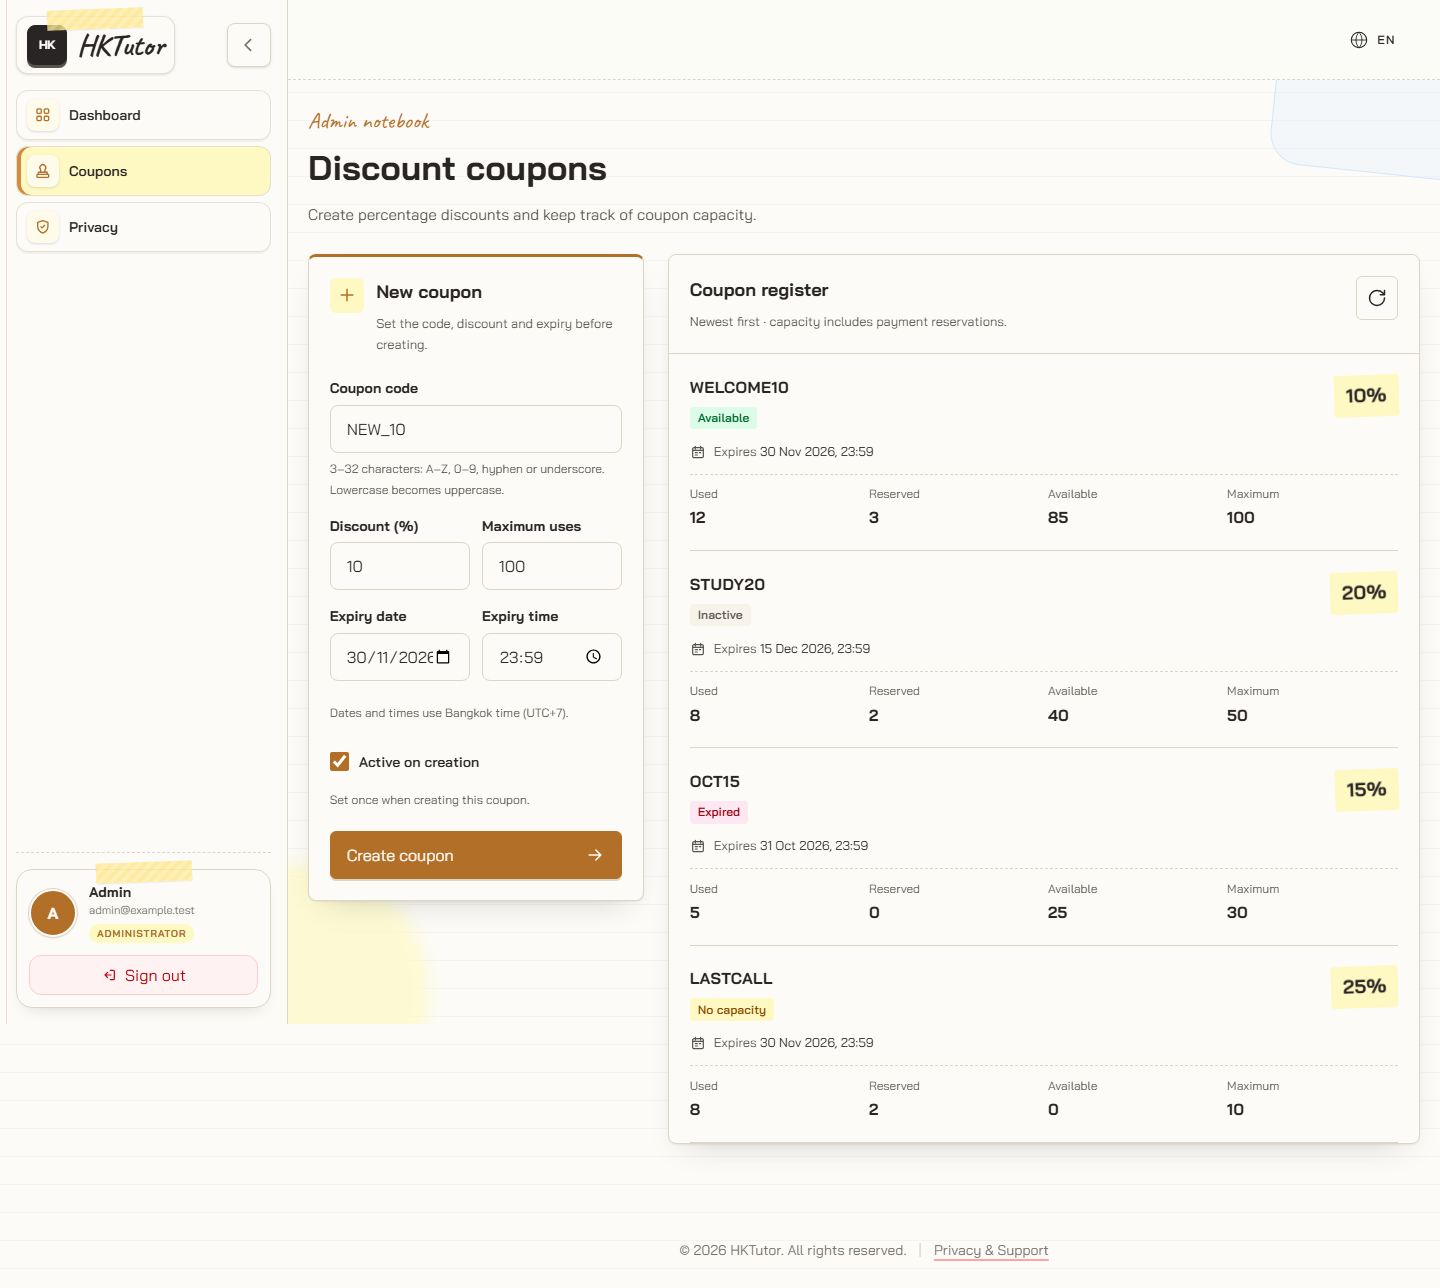
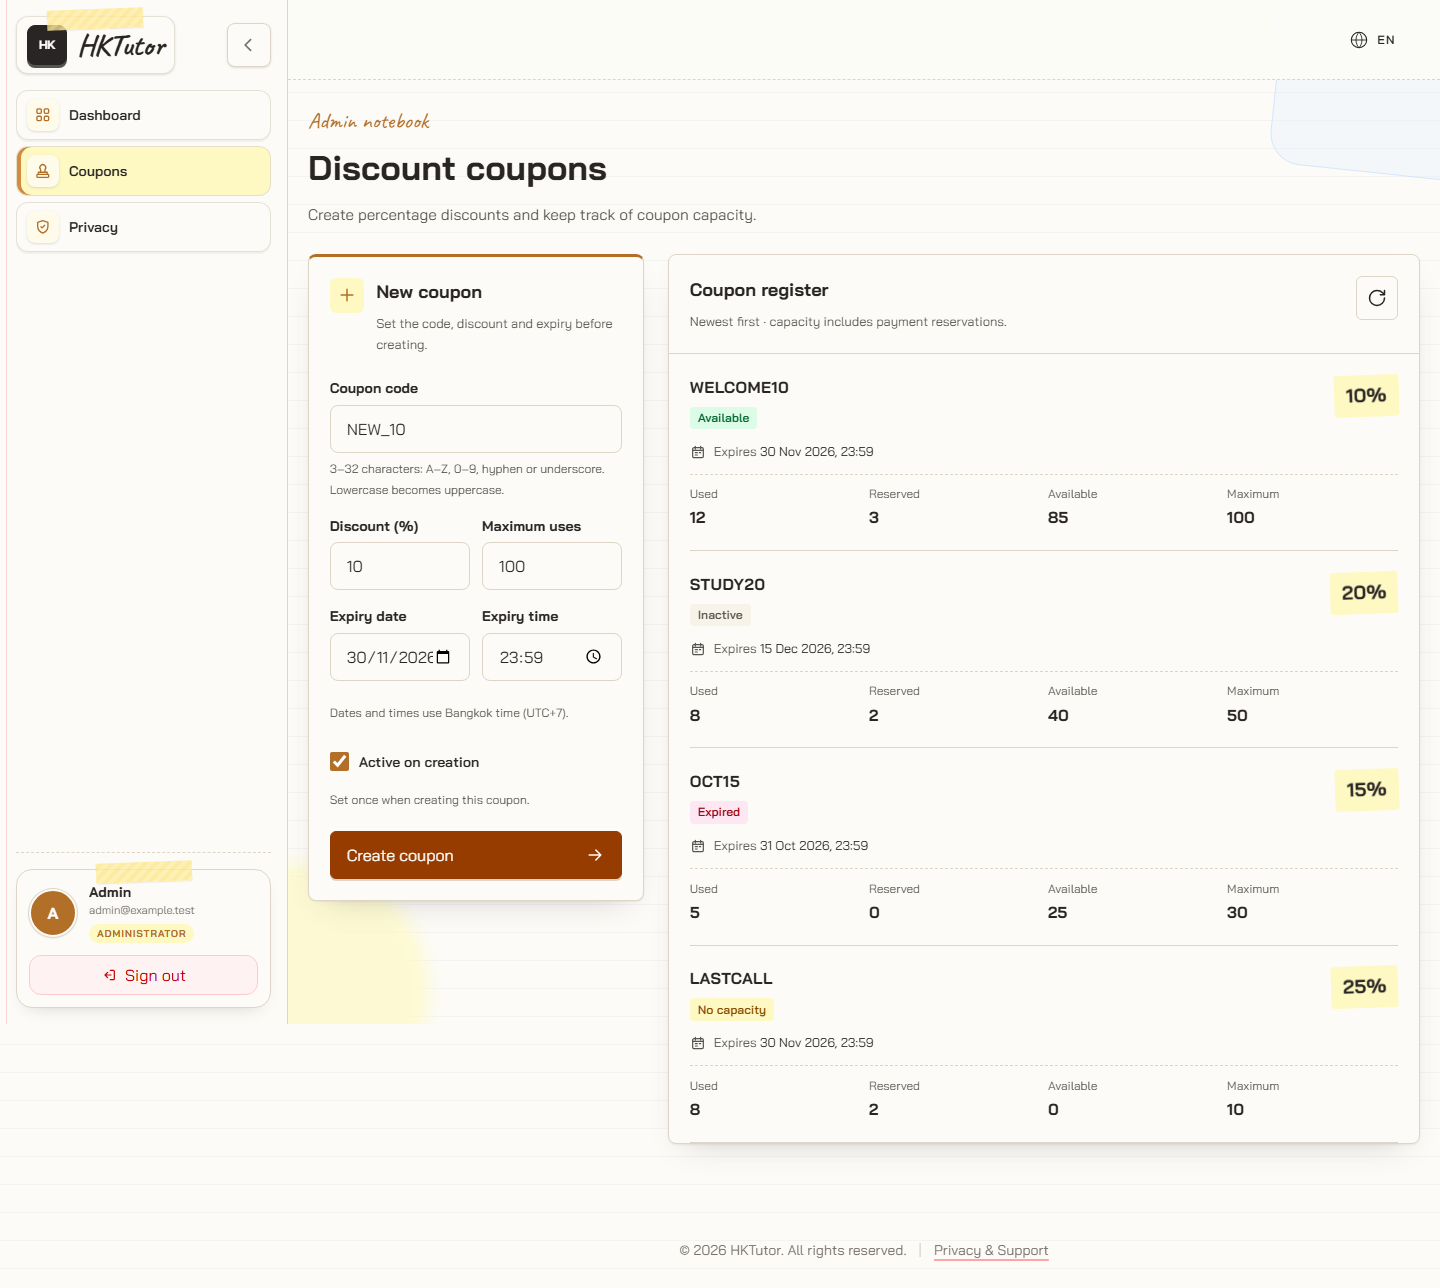
fix(coupons): improve button contrast and display recovered coupon details

Changed region(s): [[0.2188, 0.6211, 0.4375, 0.6832]]

diff --git a/apps/web/e2e/admin-coupons-ui.spec.ts b/apps/web/e2e/admin-coupons-ui.spec.ts
@@ -318,6 +318,152 @@ test('an absent code after a full recovery scan permits a manual retry', async (
   expect(posts).toBe(1);
 });
 
+test('the primary creation button meets text contrast in normal and hover states', async ({
+  page,
+}) => {
+  await page.emulateMedia({ reducedMotion: 'reduce' });
+  await setup(page, async (route) => {
+    await route.fulfill({ json: { items: [], nextCursor: null } });
+  });
+  const button = page.getByRole('button', { name: 'Create coupon', exact: true });
+  const contrast = () =>
+    button.evaluate((element) => {
+      const style = getComputedStyle(element);
+      const canvas = document.createElement('canvas');
+      canvas.width = 1;
+      canvas.height = 1;
+      const context = canvas.getContext('2d');
+      if (!context) {
+        throw new Error('Expected a canvas context for sRGB color conversion');
+      }
+      const luminance = (color: string): number => {
+        context.fillStyle = color;
+        context.fillRect(0, 0, 1, 1);
+        const [red = 0, green = 0, blue = 0] = Array.from(context.getImageData(0, 0, 1, 1).data)
+          .slice(0, 3)
+          .map((value) => {
+            const channel = value / 255;
+            return channel <= 0.04045 ? channel / 12.92 : ((channel + 0.055) / 1.055) ** 2.4;
+          });
+        return red * 0.2126 + green * 0.7152 + blue * 0.0722;
+      };
+      const foreground = luminance(style.color);
+      const background = luminance(style.backgroundColor);
+      return {
+        color: style.color,
+        background: style.backgroundColor,
+        ratio:
+          (Math.max(foreground, background) + 0.05) / (Math.min(foreground, background) + 0.05),
+      };
+    });
+  const normal = await contrast();
+  expect(normal.ratio).toBeGreaterThanOrEqual(4.5);
+  if (await page.evaluate(() => matchMedia('(hover: hover)').matches)) {
+    await button.hover();
+    await expect.poll(async () => (await contrast()).background).not.toBe(normal.background);
+    expect((await contrast()).ratio).toBeGreaterThanOrEqual(4.5);
+  }
+});
+
+for (const language of ['en', 'th']) {
+  test(`recovery displays the 21st coupon even when first-page refresh fails (${language})`, async ({
+    page,
+  }, testInfo) => {
+    await page.emulateMedia({ reducedMotion: 'reduce' });
+    let mode: 'initial' | 'checking' | 'refresh' = 'initial';
+    let posts = 0;
+    const recent = Array.from({ length: 20 }, (_, index) => ({
+      ...first,
+      id: `recent-${index}`,
+      code: `RECENT_${index}`,
+    }));
+    const recovered: AdminCoupon = {
+      ...first,
+      id: 'old-coupon',
+      code: 'RECOVER_10',
+      percent: 35,
+      consumedUses: 11,
+      reservedUses: 7,
+      availableUses: 82,
+      active: false,
+    };
+    await setup(
+      page,
+      async (route, url) => {
+        if (route.request().method() === 'POST') {
+          posts += 1;
+          mode = 'checking';
+          await route.abort('failed');
+        } else if (mode === 'refresh') {
+          await route.fulfill({ status: 503, json: { message: 'offline' } });
+        } else if (url.searchParams.has('cursor')) {
+          mode = 'refresh';
+          await route.fulfill({ json: { items: [recovered], nextCursor: null } });
+        } else {
+          await route.fulfill({ json: { items: recent, nextCursor: 'page-2' } });
+        }
+      },
+      'ADMIN',
+      language,
+    );
+    const register = page.getByRole('region', {
+      name: language === 'th' ? 'ทะเบียนคูปอง' : 'Coupon register',
+      exact: true,
+    });
+    await expect(register.getByRole('listitem')).toHaveCount(20);
+    await page.locator('#coupon-code').fill('recover_10');
+    await page.locator('#coupon-percent').fill('10');
+    await page.locator('#coupon-maxUses').fill('100');
+    await page.locator('#coupon-date').fill('2026-11-30');
+    await page.locator('#coupon-time').fill('23:59');
+    await page
+      .getByRole('button', {
+        name: language === 'th' ? 'สร้างคูปอง' : 'Create coupon',
+        exact: true,
+      })
+      .click();
+    await page
+      .getByRole('button', {
+        name: language === 'th' ? 'ตรวจสอบผลการสร้าง' : 'Check creation result',
+        exact: true,
+      })
+      .click();
+    const match = page.getByRole('region', {
+      name: language === 'th' ? 'คูปองที่พบ' : 'Existing coupon',
+      exact: true,
+    });
+    await expect(match).toBeVisible();
+    await expect(match.getByText('RECOVER_10 · 35%', { exact: true })).toBeVisible();
+    expect(await match.locator('dd').allTextContents()).toEqual(
+      expect.arrayContaining(['11', '7', '82', '100']),
+    );
+    await expect(match.locator('time')).toHaveAttribute('datetime', recovered.expiresAt);
+    await expect(
+      match.getByText(language === 'th' ? 'ปิดใช้งาน' : 'Inactive', { exact: true }),
+    ).toBeVisible();
+    await expect(register.getByRole('alert')).toBeVisible();
+    await expect(register.getByRole('listitem')).toHaveCount(20);
+    await expect(register.getByText('RECOVER_10', { exact: true })).toHaveCount(0);
+    expect(posts).toBe(1);
+    const output = path.resolve('..', '..', 'ui-design', 'review-evidence', 's3-t22');
+    await mkdir(output, { recursive: true });
+    await expect(page.locator('[data-notebook-toast]')).toHaveCount(0);
+    await match.scrollIntoViewIfNeeded();
+    await match.screenshot({
+      path: path.join(output, `recovery-${testInfo.project.name}-${language}.png`),
+    });
+    await page.locator('#coupon-code').fill('ANOTHER10');
+    await expect(match).toHaveCount(0);
+    await expect(page.locator('#coupon-percent')).toHaveValue('10');
+    await expect(
+      page.getByRole('button', {
+        name: language === 'th' ? 'สร้างคูปอง' : 'Create coupon',
+        exact: true,
+      }),
+    ).toBeEnabled();
+  });
+}
+
 test('paginates with real counts, retains rows on failure, and retries the failed page', async ({
   page,
 }) => {

diff --git a/apps/web/src/components/coupons/coupon-create-form.tsx b/apps/web/src/components/coupons/coupon-create-form.tsx
@@ -13,10 +13,12 @@ import { DashboardIcon } from '@/components/dashboard/dashboard-icon';
 import { notebookInputClass } from '@/components/ui/notebook';
 import { useNotebookToast } from '@/components/ui/notebook-toast';
 import { createAdminCoupon, listAdminCoupons } from '@/lib/api/coupons';
+import { formatBangkokDateTime } from '@/lib/date-time';
 
 import type { CouponCopy } from '@/components/coupons/coupon-copy';
 import type { CouponDraft, CouponErrors, CouponField } from '@/components/coupons/coupon-model';
 import type { AdminCoupon } from '@/lib/api/types';
+import type { Language } from '@/lib/i18n';
 import type { FormEvent } from 'react';
 
 type Phase = 'idle' | 'saving' | 'uncertain' | 'checking';
@@ -24,11 +26,13 @@ type Notice = 'success' | 'invalid' | 'uncertain' | 'checkFailed' | 'found' | 'a
 
 export function CouponCreateForm({
   copy,
+  language,
   onCreated,
   onReconciled,
   onDenied,
 }: {
   copy: CouponCopy;
+  language: Language;
   onCreated: (coupon: AdminCoupon) => void;
   onReconciled: () => void;
   onDenied: (kind: 'unauthorized' | 'forbidden') => void;
@@ -37,6 +41,7 @@ export function CouponCreateForm({
   const [errors, setErrors] = useState<CouponErrors>({});
   const [phase, setPhase] = useState<Phase>('idle');
   const [notice, setNotice] = useState<Notice>(null);
+  const [recoveredCoupon, setRecoveredCoupon] = useState<AdminCoupon | null>(null);
   const formRef = useRef<HTMLFormElement>(null);
   const statusRef = useRef<HTMLParagraphElement>(null);
   const lifetime = useRef<AbortController | null>(null);
@@ -61,6 +66,7 @@ export function CouponCreateForm({
   }
 
   function update<K extends keyof CouponDraft>(field: K, value: CouponDraft[K]): void {
+    setRecoveredCoupon(null);
     setDraft((current) => ({ ...current, [field]: value }));
     setErrors((current) => ({
       ...current,
@@ -74,6 +80,7 @@ export function CouponCreateForm({
     if (busy.current || phase !== 'idle') {
       return;
     }
+    setRecoveredCoupon(null);
     const result = validateCouponDraft(draft, Date.now());
     if (result.errors) {
       setErrors(result.errors);
@@ -133,6 +140,7 @@ export function CouponCreateForm({
     }
     busy.current = true;
     setPhase('checking');
+    setRecoveredCoupon(null);
     try {
       const signal = AbortSignal.any([controller.signal, AbortSignal.timeout(30_000)]);
       const found = await reconcileCouponCode(
@@ -146,6 +154,7 @@ export function CouponCreateForm({
       setPhase('idle');
       setNotice(found ? 'found' : 'absent');
       setErrors(found ? { code: 'duplicate' } : {});
+      setRecoveredCoupon(found);
       onReconciled();
       if (found) {
         focusError({ code: 'duplicate' });
@@ -332,7 +341,7 @@ export function CouponCreateForm({
         </fieldset>
         <button
           type="submit"
-          className="mt-[1.3rem] inline-flex min-h-12 w-full items-center justify-between gap-2.5 rounded-md border border-admin-deep bg-admin-deep px-4 py-2.5 text-sm font-bold text-paper shadow-[0_2px_0_var(--color-paper-edge)] transition-colors hover:bg-admin focus-visible:outline-2 focus-visible:outline-offset-3 focus-visible:outline-admin-deep disabled:cursor-not-allowed disabled:opacity-60"
+          className="mt-[1.3rem] inline-flex min-h-12 w-full items-center justify-between gap-2.5 rounded-md border border-amber-800 bg-amber-800 px-4 py-2.5 text-sm font-bold text-paper shadow-[0_2px_0_var(--color-paper-edge)] transition-colors hover:bg-amber-900 focus-visible:outline-2 focus-visible:outline-offset-3 focus-visible:outline-admin-deep disabled:cursor-not-allowed disabled:opacity-60"
           disabled={locked}
         >
           {phase === 'saving' ? copy.creating : copy.create}
@@ -352,6 +361,45 @@ export function CouponCreateForm({
         >
           {copy[notice]}
         </p>
+      )}
+      {recoveredCoupon && (
+        <section
+          className="mt-4 border-t border-paper-edge pt-4"
+          aria-labelledby="coupon-recovery-heading"
+        >
+          <h3 id="coupon-recovery-heading" className="text-sm font-bold">
+            {copy.recoveredTitle}
+          </h3>
+          <p className="mt-2 font-bold wrap-anywhere">
+            {recoveredCoupon.code} · {recoveredCoupon.percent}%
+          </p>
+          <dl className="mt-3 grid grid-cols-2 gap-3 text-sm">
+            {(['consumedUses', 'reservedUses', 'availableUses', 'maxUses'] as const).map(
+              (field, index) => (
+                <div key={field}>
+                  <dt className="text-xs text-notebook-muted-deep">
+                    {[copy.used, copy.reserved, copy.available, copy.limit][index]}
+                  </dt>
+                  <dd className="font-semibold tabular-nums wrap-anywhere">
+                    {recoveredCoupon[field].toLocaleString(language === 'th' ? 'th-TH' : 'en-US')}
+                  </dd>
+                </div>
+              ),
+            )}
+            <div className="col-span-full">
+              <dt className="text-xs text-notebook-muted-deep">{copy.expiry}</dt>
+              <dd>
+                <time dateTime={recoveredCoupon.expiresAt}>
+                  {formatBangkokDateTime(recoveredCoupon.expiresAt, language)}
+                </time>
+              </dd>
+            </div>
+            <div className="col-span-full">
+              <dt className="text-xs text-notebook-muted-deep">{copy.activation}</dt>
+              <dd>{recoveredCoupon.active ? copy.enabled : copy.statuses.inactive}</dd>
+            </div>
+          </dl>
+        </section>
       )}
       {(phase === 'uncertain' || phase === 'checking') && (
         <button

diff --git a/apps/web/src/components/coupons/coupon-copy.ts b/apps/web/src/components/coupons/coupon-copy.ts
@@ -47,8 +47,10 @@ export const couponCopy = {
     checking: 'Checking creation result…',
     checkFailed:
       'Could not finish checking all coupons. Keep checking before trying to create again.',
-    found:
-      'A coupon with this code exists. The register has been refreshed; check its details before changing the code.',
+    found: 'A coupon with this code exists. Review its details below before choosing another code.',
+    recoveredTitle: 'Existing coupon',
+    activation: 'Activation',
+    enabled: 'Active',
     absent: 'This code was not found after checking the list. You can retry creating the coupon.',
     back: 'Back to dashboard',
     errors: {
@@ -108,7 +110,10 @@ export const couponCopy = {
     check: 'ตรวจสอบผลการสร้าง',
     checking: 'กำลังตรวจสอบผลการสร้าง…',
     checkFailed: 'ยังตรวจสอบคูปองทั้งหมดไม่สำเร็จ กรุณาตรวจสอบอีกครั้งก่อนลองสร้างใหม่',
-    found: 'พบคูปองรหัสนี้แล้ว โหลดทะเบียนใหม่แล้ว กรุณาตรวจสอบรายละเอียดก่อนเปลี่ยนรหัส',
+    found: 'พบคูปองรหัสนี้แล้ว กรุณาตรวจสอบรายละเอียดด้านล่างก่อนใช้รหัสอื่น',
+    recoveredTitle: 'คูปองที่พบ',
+    activation: 'การเปิดใช้งาน',
+    enabled: 'เปิดใช้งาน',
     absent: 'ตรวจสอบรายการแล้วไม่พบรหัสนี้ สามารถลองสร้างคูปองอีกครั้งได้',
     back: 'กลับแดชบอร์ด',
     errors: {

diff --git a/apps/web/src/components/coupons/admin-coupon-page.tsx b/apps/web/src/components/coupons/admin-coupon-page.tsx
@@ -118,6 +118,7 @@ function CouponWorkspace() {
       <div className="grid grid-cols-[minmax(0,21rem)_minmax(0,1fr)] items-start gap-6 @max-[850px]/coupons:grid-cols-1">
         <CouponCreateForm
           copy={copy}
+          language={language}
           onCreated={created}
           onReconciled={() => void load()}
           onDenied={setDenied}

diff --git a/tests/s3-t22-qa.md b/tests/s3-t22-qa.md
@@ -86,3 +86,46 @@ checks assert no page-width overflow, usable input dimensions and keyboard focus
 zero uncaught browser errors in the screenshot journeys. The existing body font is local Bai
 Jamjuree; an earlier development run temporarily fell back for Google-hosted note fonts because of
 network access, without changing app source. No Safari/Firefox or physical-device run is claimed.
+
+## PR #163 review follow-up (2026-11-11)
+
+- [P2: primary-button contrast](https://github.com/Sitta-C/HKTutor/pull/163#discussion_r4535381547):
+  the creation button now uses Tailwind `amber-800` with `amber-900` on hover and the existing
+  paper-colored text. A browser regression calculates WCAG contrast from computed colors converted
+  to sRGB and requires at least 4.5:1. Normal contrast is checked on all three Chromium projects;
+  hover contrast is checked when the device reports hover support. Touch-only projects retain the
+  normal state, matching Tailwind's hover media query.
+- [P3: inspect the recovered coupon](https://github.com/Sitta-C/HKTutor/pull/163#discussion_r4535405756):
+  reconciliation retains the actual matching API record and displays a read-only summary directly
+  below its notice. The summary includes code, percent, consumed/reserved/available/maximum uses,
+  Bangkok expiry and stored activation in both languages. It remains visible when the match is on
+  a later page and refreshing page one fails. Editing the form clears the summary; the user's draft
+  values remain intact. Finding an existing code does not claim that the failed request created it.
+- New regressions use 20 recent rows followed by a matching 21st coupon with values different from
+  the submitted draft. They verify the returned details, retained draft, single POST and a failed
+  first-page refresh in Thai and English. Screenshots wait for the transient toast to disappear.
+
+The production build passed, and the web unit run passed all 49 files / 763 tests. Browser evidence
+uses a separate production server at `http://localhost:3002`, with the same intercepted API fixtures
+and no database/provider writes. An earlier browser attempt lost the development server during a
+concurrent build (`ERR_CONNECTION_REFUSED`); browser verification was restarted after the build
+completed. No application workaround or unrelated configuration change was introduced.
+
+Additional recovered-summary captures are named `recovery-{project}-{language}.png` under
+`ui-design/review-evidence/s3-t22/`, for `chromium`, `tablet-chromium`, `mobile-chromium` and `en`/`th`.
+The existing six responsive page screenshots are regenerated to show the updated button.
+
+Review verification results:
+
+| Command                                                                    | Actual result                                                               |
+| -------------------------------------------------------------------------- | --------------------------------------------------------------------------- |
+| `pnpm --filter @hktutor/web test`                                          | 49 files, 763 tests passed                                                  |
+| `pnpm --filter @hktutor/web lint`                                          | Passed; focused E2E-file lint also passed after the hover/toast corrections |
+| `pnpm --filter @hktutor/web build`                                         | Passed; coupon route generated successfully                                 |
+| `pnpm --filter @hktutor/web test:e2e admin-coupons-ui.spec.ts --workers=2` | 63 tests passed across all three Chromium projects (2.5 minutes)            |
+
+The browser command above ran with `PLAYWRIGHT_BASE_URL=http://localhost:3002` after starting the
+completed production build with `pnpm exec next start --port 3002` from `apps/web`.
+After narrowing the recovery screenshot to its summary region, the six bilingual recovery cases
+were rerun with `--grep '21st coupon'` and all passed. Prettier checks passed for all five changed
+source, test and documentation files.
